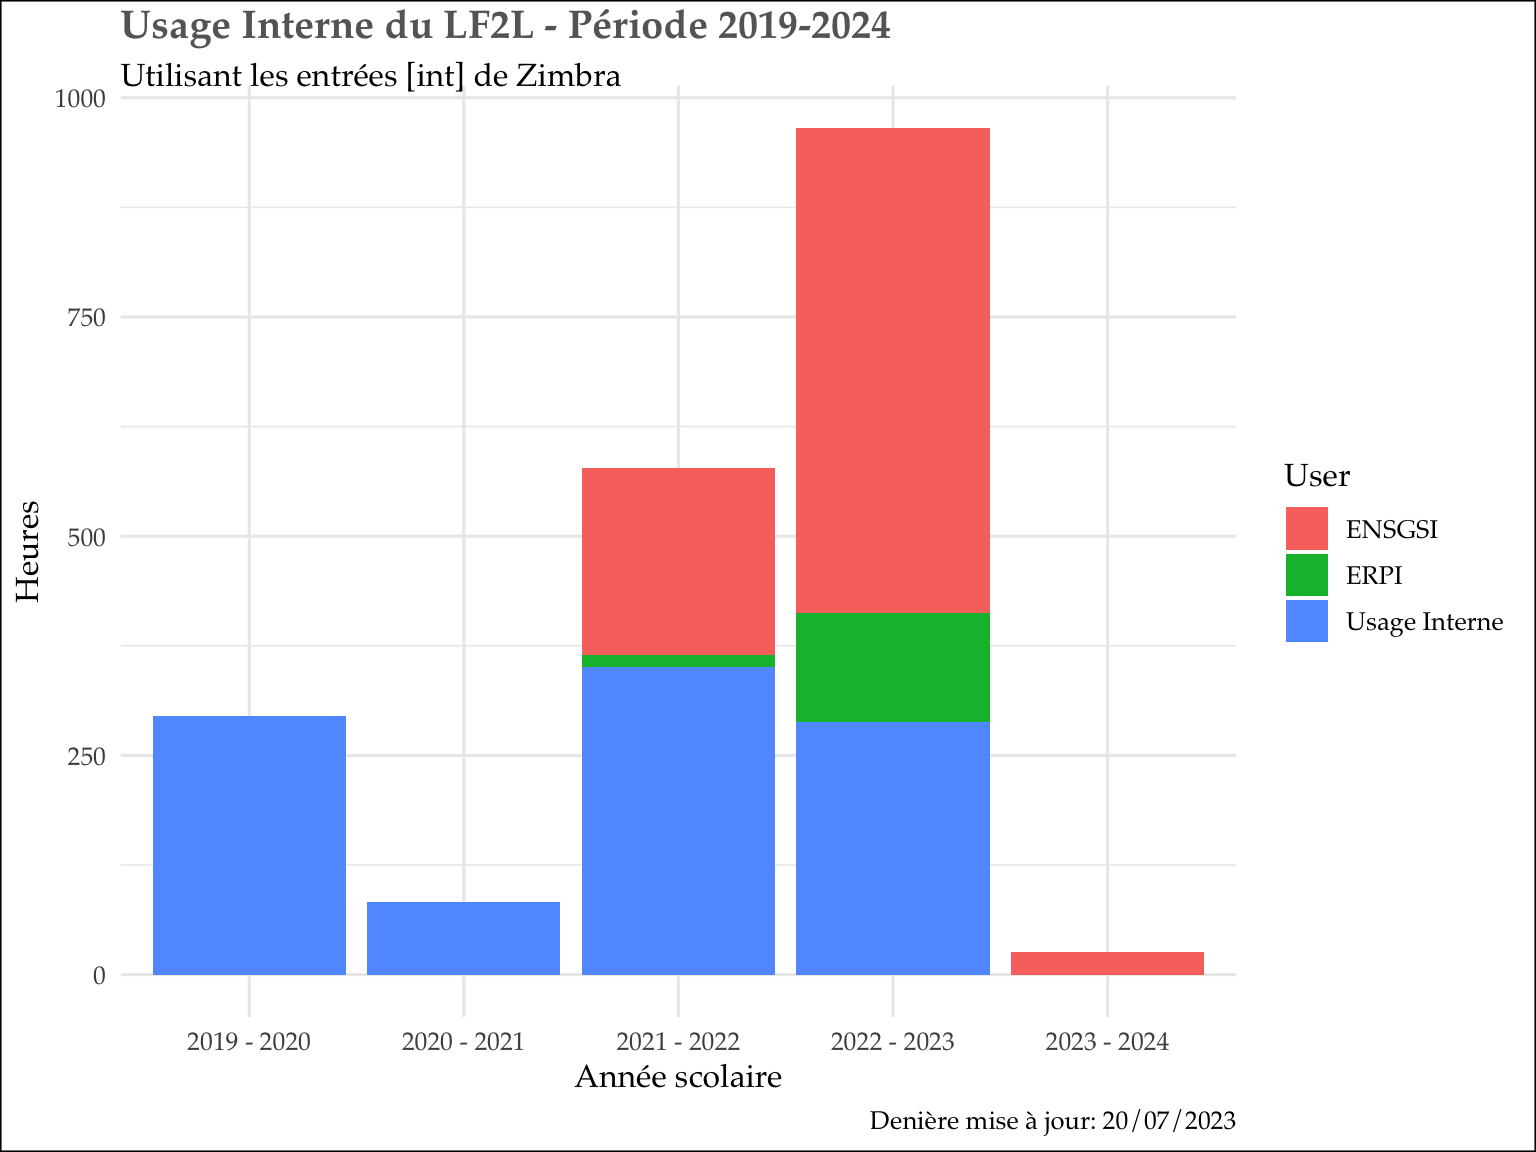
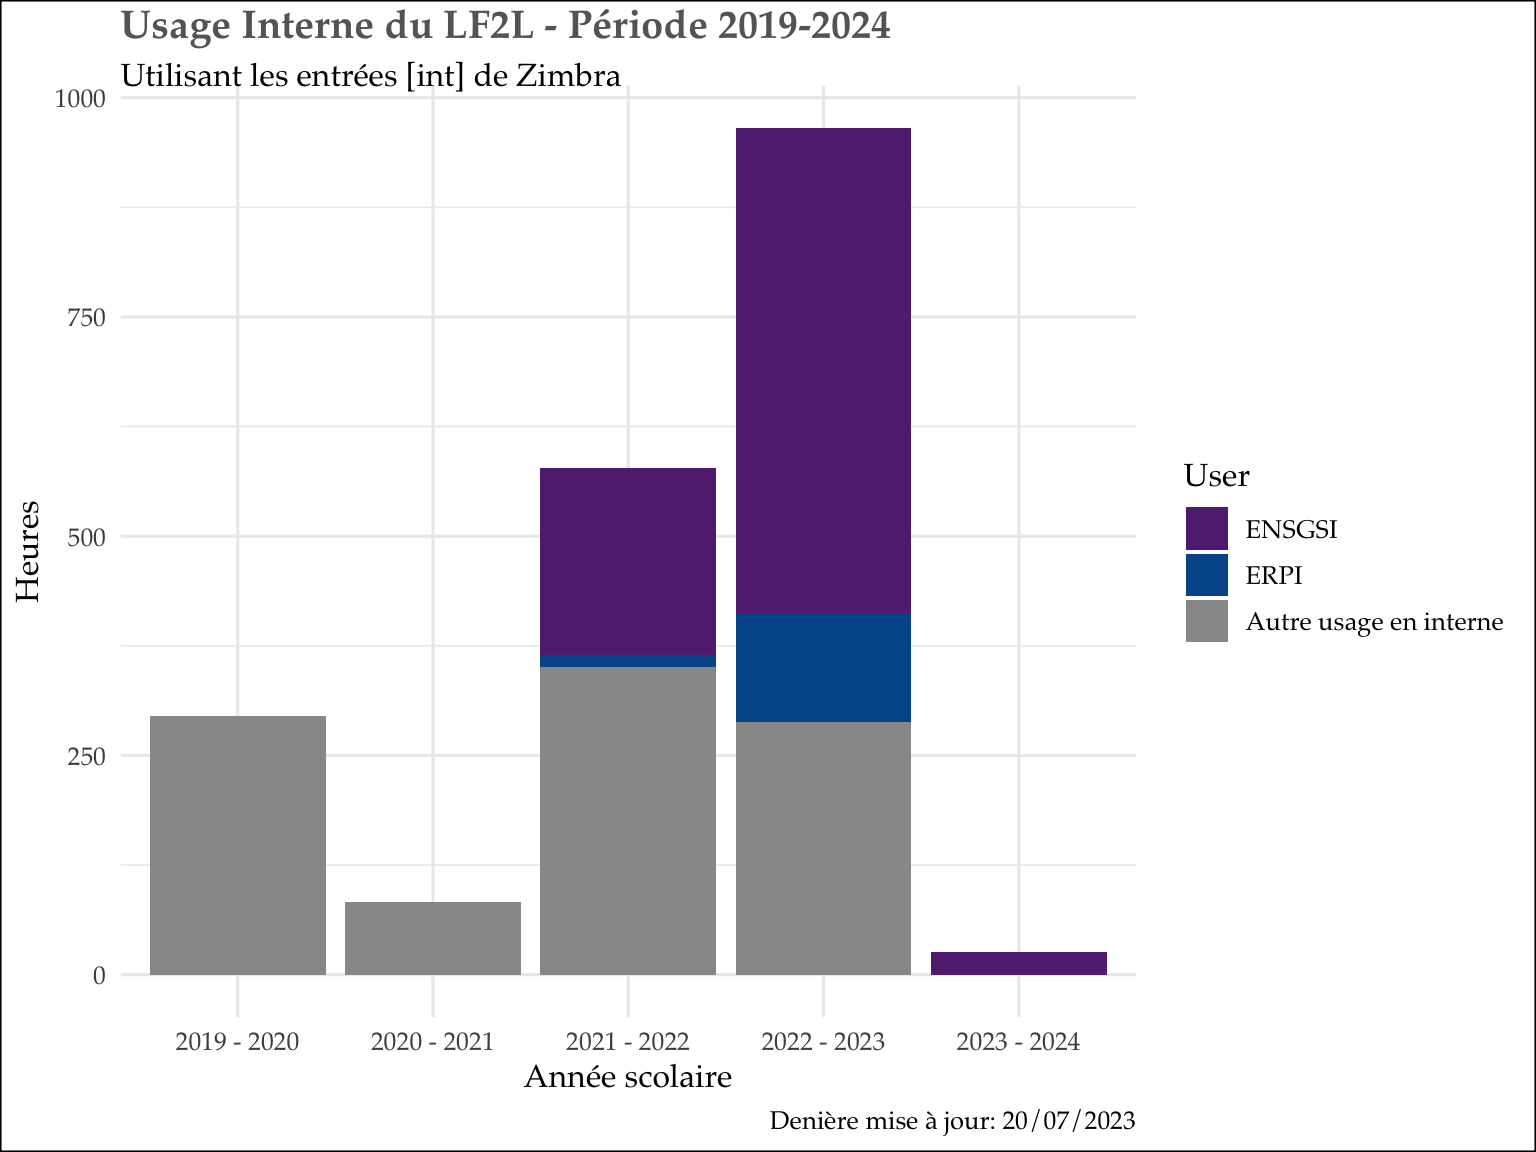
adding images

Changed region(s): [[0.0938, 0.0938, 0.7812, 0.9688], [0.75, 0.4062, 0.9375, 0.5625], [0.5, 0.9688, 0.8125, 1.0]]

diff --git a/index.html b/index.html
@@ -137,10 +137,6 @@ ul.task-list li input[type="checkbox"] {
 <section id="analyse-total-des-activites-selon-zimbra-par-anné" class="level2 page-columns page-full">
 <h2 class="anchored" data-anchor-id="analyse-total-des-activites-selon-zimbra-par-anné">Analyse total des Activites selon ZIMBRA par anné</h2>
 <div class="cell page-columns page-full">
-<div class="cell-output cell-output-stderr">
-<pre><code>Don't know how to automatically pick scale for object of type &lt;difftime&gt;.
-Defaulting to continuous.</code></pre>
-</div>
 <div class="cell-output-display column-page">
 <p><img src="index_files/figure-html/unnamed-chunk-2-1.png" class="img-fluid" width="864"></p>
 </div>
@@ -178,12 +174,15 @@ Defaulting to continuous.</code></pre>
 </section>
 <section id="specification-de-certains-cours" class="level1 page-columns page-full">
 <h1>Specification de certains cours</h1>
-<p>Certains cours sont, nottament CI3,CI6, Master IDEAS, IUVTT, AIU</p>
+<p>Certains cours sont possible des les repèrer dans le calendirer. Nottament CI3,CI6, Master IDEAS, IUVTT, AIU. Cepandant, il manque un travail sur le calendrier pour ameliorer la lisibilité d’une grand partie de <em>“l’Autre Usage Interne”</em></p>
 <div class="cell page-columns page-full">
 <div class="cell-output-display column-page">
-<p><img src="index_files/figure-html/unnamed-chunk-5-1.png" class="img-fluid" width="768"></p>
+<p><img src="index_files/figure-html/unnamed-chunk-5-1.png" class="img-fluid" width="864"></p>
 </div>
 </div>
+</section>
+<section id="usage-anne-2022---2023" class="level1">
+<h1>Usage Anne 2022 - 2023</h1>
 </section>
 
 </main>
